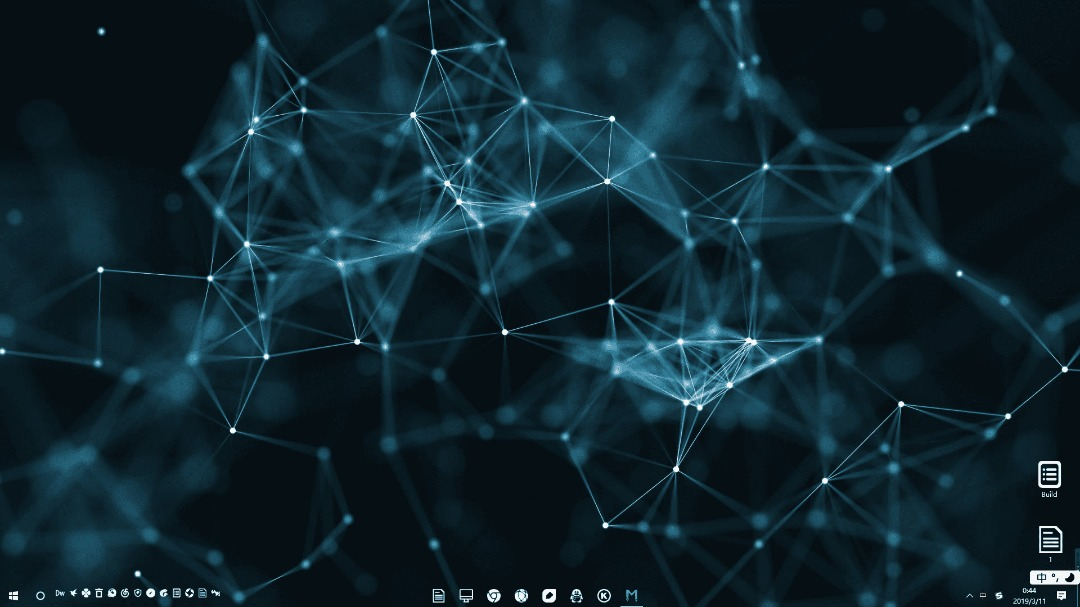
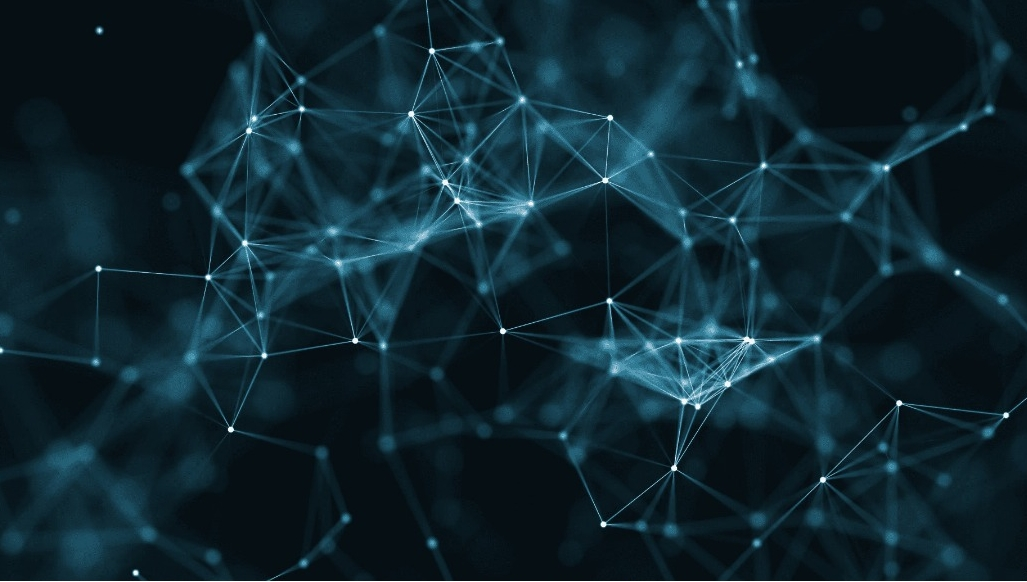
Update backround image at login page

diff --git a/resources/views/auth/login.blade.php b/resources/views/auth/login.blade.php
@@ -33,7 +33,7 @@
     <![endif]-->
 
 </head>
-<body class="hold-transition login-page" style="background-image: url({{asset('public/background.jpeg')}});"">
+<body class="hold-transition login-page img-responsive" style="background: url({{asset('public/background.jpeg')}}) no-repeat center fixed; background-size:cover;">
 <div class="login-box">
     <div class="login-logo">
         <img src="{{asset('public/logo_z.png')}}" class="img-fluid" height="50px">
